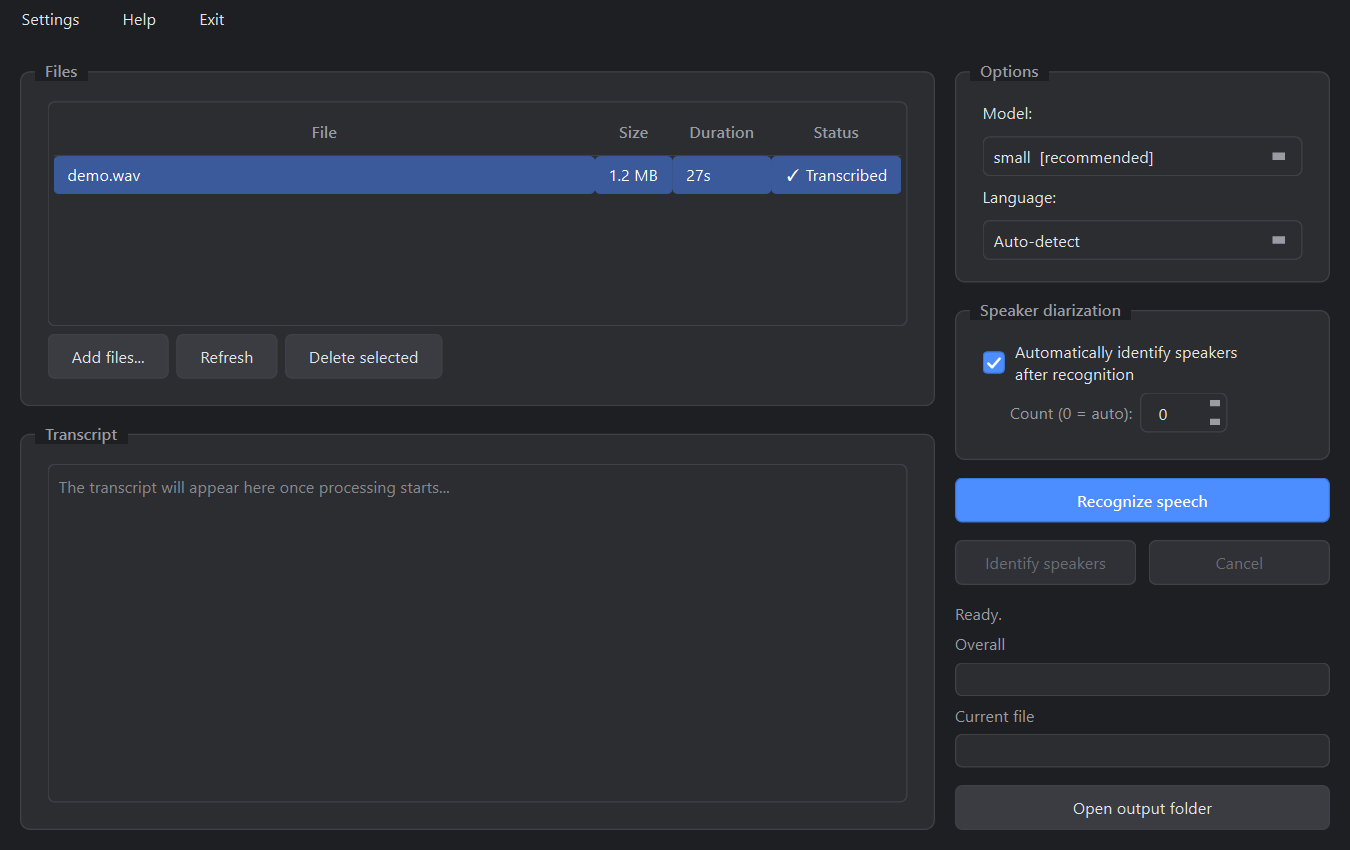
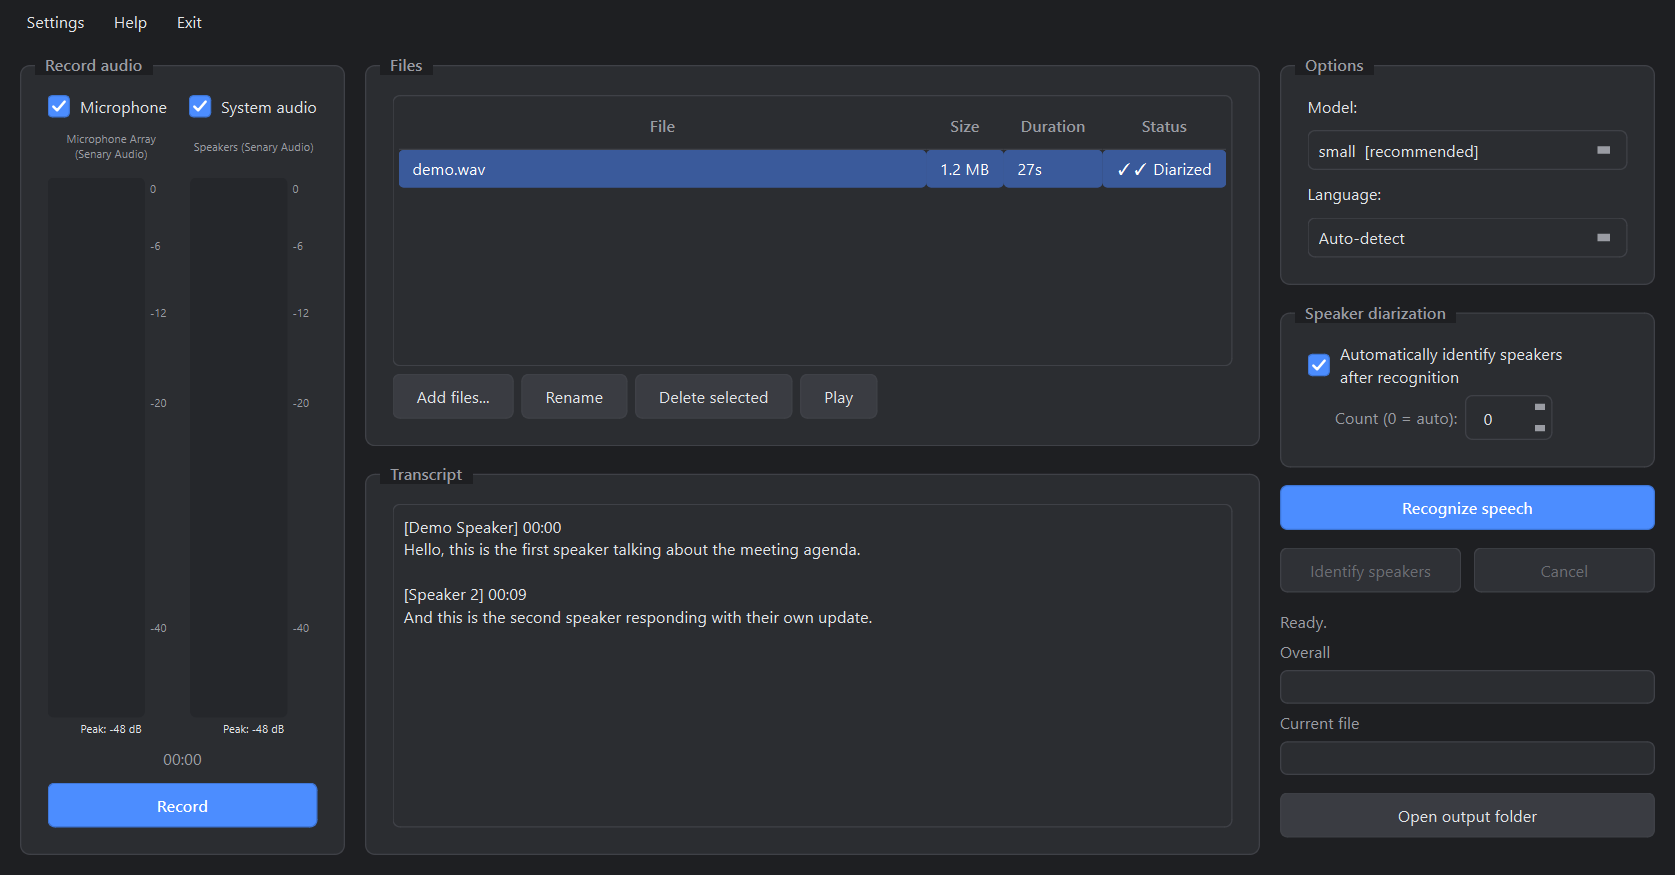
docs: refresh screenshots and pipeline diagram for the recording feature

diff --git a/README.uk.md b/README.uk.md
@@ -157,8 +157,11 @@ HuggingFace із прийнятими ліцензіями.
 
 ## Порада щодо запису
 
-Для найкращого результату записуй через [OBS Studio](https://obsproject.com)
-(безкоштовний, з відкритим кодом). Оптимальні налаштування звуку:
+Вбудований рекордер (див. [Можливості](#можливості)) покриває більшість
+випадків прямо в застосунку. Якщо хочеш записувати чимось іншим - або звук
+надходить іззовні (з телефону, іншого застосунку) - найкращий результат дає
+[OBS Studio](https://obsproject.com) (безкоштовний, з відкритим кодом).
+Оптимальні налаштування звуку:
 
 - **Settings → Audio → Sample Rate:** 44.1 кГц
 - **Settings → Audio → Channels:** Mono (моно)

diff --git a/README.md b/README.md
@@ -157,8 +157,10 @@ language (English/Українська) are all managed from **Settings**.
 
 ## Recording tip
 
-For the cleanest results, record with [OBS Studio](https://obsproject.com) (free
-and open-source). Optimal audio settings:
+The built-in recorder (see [Features](#features)) covers most cases directly in
+the app. If you'd rather record with something else - or the audio comes from
+elsewhere (a phone, another app) - [OBS Studio](https://obsproject.com) (free
+and open-source) gives the cleanest results. Optimal audio settings:
 
 - **Settings → Audio → Sample Rate:** 44.1 kHz
 - **Settings → Audio → Channels:** Mono
